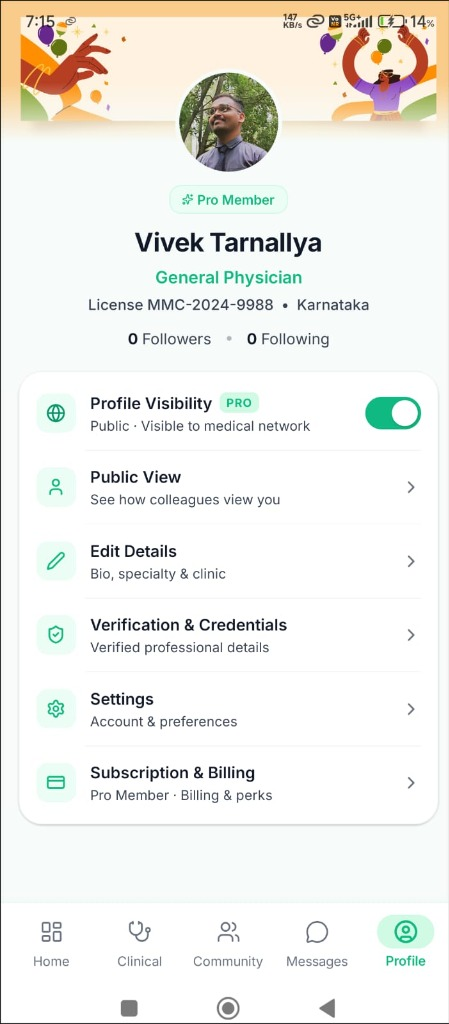
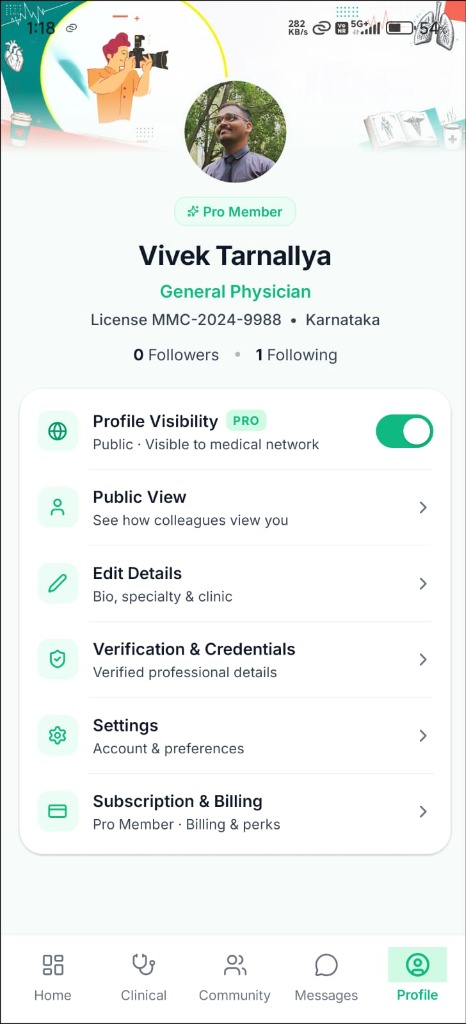
feat: add Sections component with Header and Hero views

diff --git a/src/components/Sections.tsx b/src/components/Sections.tsx
@@ -428,7 +428,7 @@ export const Hero: React.FC<{ onScanQR: () => void }> = ({ onScanQR }) => {
                 A focused professional community for doctors and medical students with clinical discussions, meaningful connections, and practical tools in one workspace.
               </span>
               <span className="mobile-only">
-                A focused medical network for verified doctors & students — with clinical discussions and bedside tools.
+                A focused medical network for verified doctors & students with clinical discussions and bedside tools.
               </span>
             </p>
 
